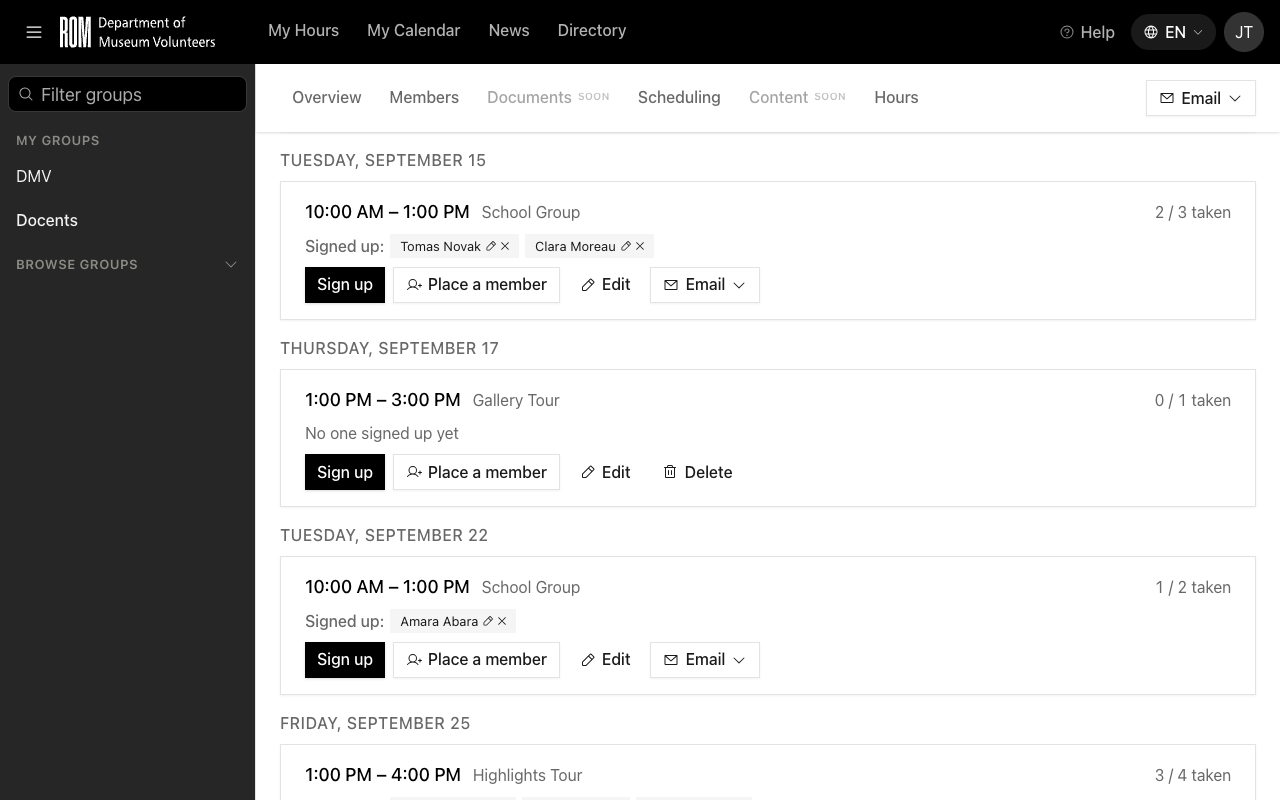
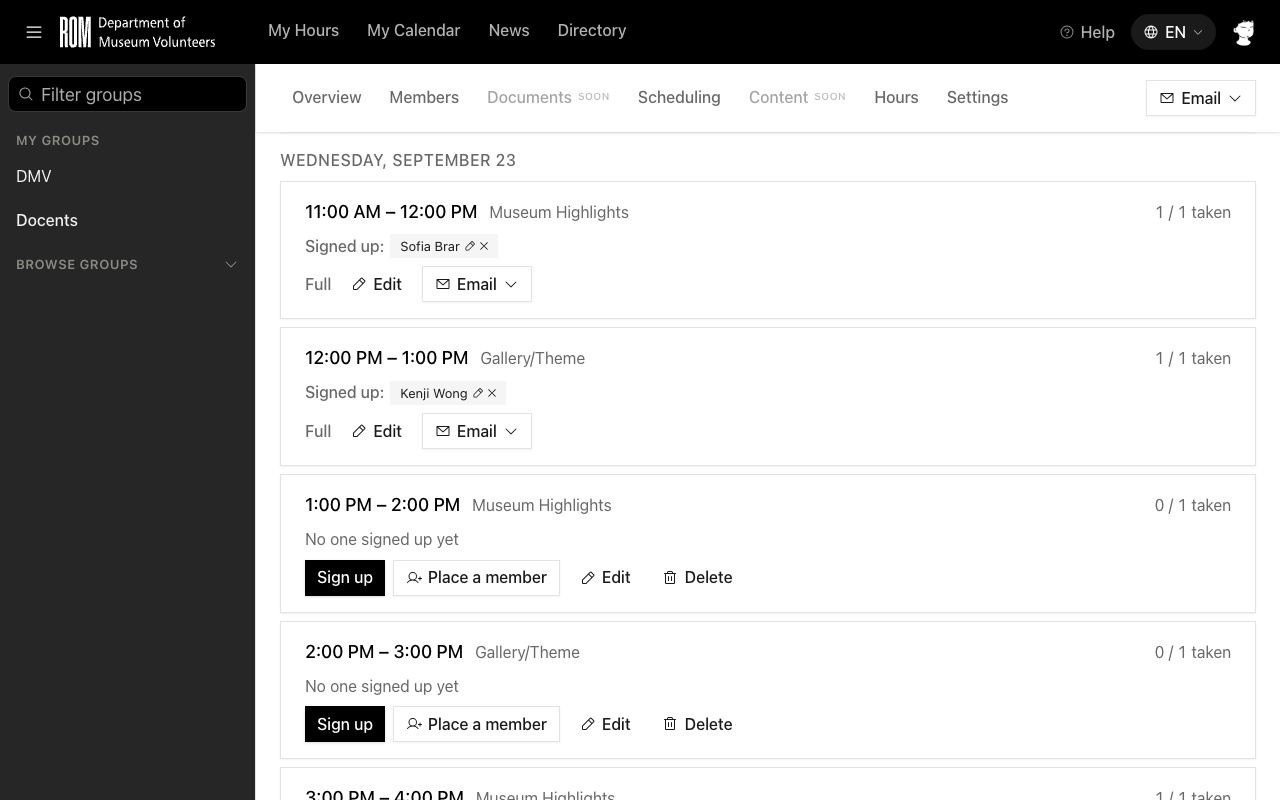
docs(help): reshoot the scheduling screenshots after the Docents roster reseed (#569) (#625)
Closes #569

## What

Reshoot the scheduling help screenshots so they show the real Docents
roster from #566: one-hour, one-seat tours labelled Museum Highlights
and Gallery/Theme. No shot shows "Recent shifts" or the old labels.

- Eleven articles reshot. `reminders` has no shots (email only), so it
is unchanged.
- `group-page-tabs`: shot 04 as asked. Shots 01, 02, 03 and 05 also
changed, because the top bar now shows the member's avatar and not "AA".
- No article text changed.

## Runner fixes

- `login()` clears localStorage. The browser daemon kept a Calendar view
choice from an earlier session. Every Schedule then opened in Calendar
view, and the agenda helpers found no shift cards.
- `run.sh` expands the step list only when it has entries. On macOS bash
3.2, `set -u` crashes on the empty `reminders` script.
- New helper `showUpcomingFullShift`. The Scheduling overview caption
says "a full shift says Full", but past shifts show no Full tag. Shot 02
now frames the first upcoming day that has a full shift.
- The runner README describes both behaviours.

## Checks

- Reseeded (`migrate:fresh --seed`) before the shoot. Looked at every
PNG.
- Referenced equals present: no files were added or removed, and the
Help tests pass (40).
- Full Pest suite: 1379 passed. `vue-tsc`, eslint and prettier are
clean.

## Help article

- [x] Not applicable: the articles exist. This PR changes only their
screenshots.

🤖 Generated with [Claude Code](https://claude.com/claude-code)

diff --git a/resources/help/screenshot-runner/page-helpers.js b/resources/help/screenshot-runner/page-helpers.js
@@ -32,8 +32,11 @@
     // every article after the first would silently shoot as that Persona. Prime the
     // session so Laravel sets the XSRF-TOKEN cookie (logout regenerates it), then POST
     // the credentials. The 302 to the dashboard is followed, so an ok response means we
-    // hold a session cookie.
+    // hold a session cookie. The daemon keeps localStorage too, so a view choice a
+    // previous run left behind (the Schedule's Agenda/Calendar toggle) is cleared, and
+    // every run shoots the default chrome.
     async function login(email, password) {
+        localStorage.clear();
         await fetch('/login', { credentials: 'same-origin' });
         await fetch('/logout', { method: 'POST', credentials: 'same-origin', headers: csrfHeaders() });
         await fetch('/login', { credentials: 'same-origin' });
@@ -355,21 +358,43 @@
         return showShiftWithButton(/^edit$/i);
     }
 
-    // The first Agenda Shift still ahead that a schedule admin can place a Member on, scrolled
-    // so its day heading stays in frame. Each Agenda day is a block led by an h3 such as
-    // "Tuesday, September 8", read against today in the current year.
-    function showUpcomingPlaceAMember() {
+    // Each Agenda day is a block led by an h3 such as "Tuesday, September 8", read against
+    // today in the current year. A day still ahead is one whose Shifts show live controls.
+    function agendaDayHeading(element) {
+        return element.closest('[data-slot="card"]')?.parentElement?.querySelector('h3') ?? null;
+    }
+
+    function isUpcomingDay(heading) {
         const today = new Date();
         today.setHours(0, 0, 0, 0);
+        return new Date(`${heading.textContent.trim()} ${today.getFullYear()}`) >= today;
+    }
+
+    // The first Agenda Shift still ahead that a schedule admin can place a Member on, scrolled
+    // so its day heading stays in frame.
+    function showUpcomingPlaceAMember() {
         const button = Array.from(document.querySelectorAll('button'))
             .filter((element) => /^place a member$/i.test(element.textContent.trim()) && outsideMySignUps(element))
             .find((element) => {
-                const heading = element.closest('[data-slot="card"]')?.parentElement?.querySelector('h3');
-                return heading && new Date(`${heading.textContent.trim()} ${today.getFullYear()}`) >= today;
+                const heading = agendaDayHeading(element);
+                return heading && isUpcomingDay(heading);
             });
         if (!button) return false;
-        const heading = button.closest('[data-slot="card"]').parentElement.querySelector('h3');
-        scrollUnderStickyStrip(heading, 16);
+        scrollUnderStickyStrip(agendaDayHeading(button), 16);
+        return settle();
+    }
+
+    // The first Agenda day still ahead with a full Shift on it, scrolled so its heading stays in
+    // frame. A past Shift shows its seats but no Full tag, so the overview shot starts here: the
+    // day shows seats taken against capacity, and a full Shift beside one still open.
+    function showUpcomingFullShift() {
+        const full = Array.from(document.querySelectorAll('[data-slot="card"] *')).find((element) => {
+            if (element.children.length || element.textContent.trim() !== 'Full' || !outsideMySignUps(element)) return false;
+            const heading = agendaDayHeading(element);
+            return heading && isUpcomingDay(heading);
+        });
+        if (!full) return false;
+        scrollUnderStickyStrip(agendaDayHeading(full), 16);
         return settle();
     }
 
@@ -584,6 +609,7 @@
         openWriteMyShiftDialog,
         showMyWrittenShift,
         showUpcomingPlaceAMember,
+        showUpcomingFullShift,
         openPlaceAMemberDialog,
         showCorrectionPencil,
         openCorrectionForm,

diff --git a/resources/help/screenshot-runner/README.md b/resources/help/screenshot-runner/README.md
@@ -44,6 +44,8 @@ act highlightHelpLink 02    # run one in-page helper, then shoot it
   the sticky tab strip; anything a plain `nav` cannot show.
 - Leave `NN` off a `nav` or `act` line to take no shot. Use it to reload a page and
   close a dialog, or to open a Schedule before the helper that frames the shot.
+- An article with nothing to shoot keeps its script with no steps. The script
+  records why, and the runner signs in and takes no shots.
 
 Keep an article to one screen of reading, so a handful of shots. The comment
 after each step is the note to yourself about what the shot should show; the
@@ -55,7 +57,9 @@ Shoot each article as the account that does the task, so the chrome in the shot
 matches the reader's. All Personas share the dev password `password`. The
 browser keeps its cookies between runs, so the runner signs the previous Persona
 out before it signs the script's Persona in; two articles shot back to back never
-share a session.
+share a session. The browser keeps localStorage too, so the runner clears it at
+sign-in. A view choice from an earlier run, such as the Schedule's Calendar
+view, never carries into a shot.
 
 | Article kind                 | Persona                 | Email                     |
 | ---------------------------- | ----------------------- | ------------------------- |
